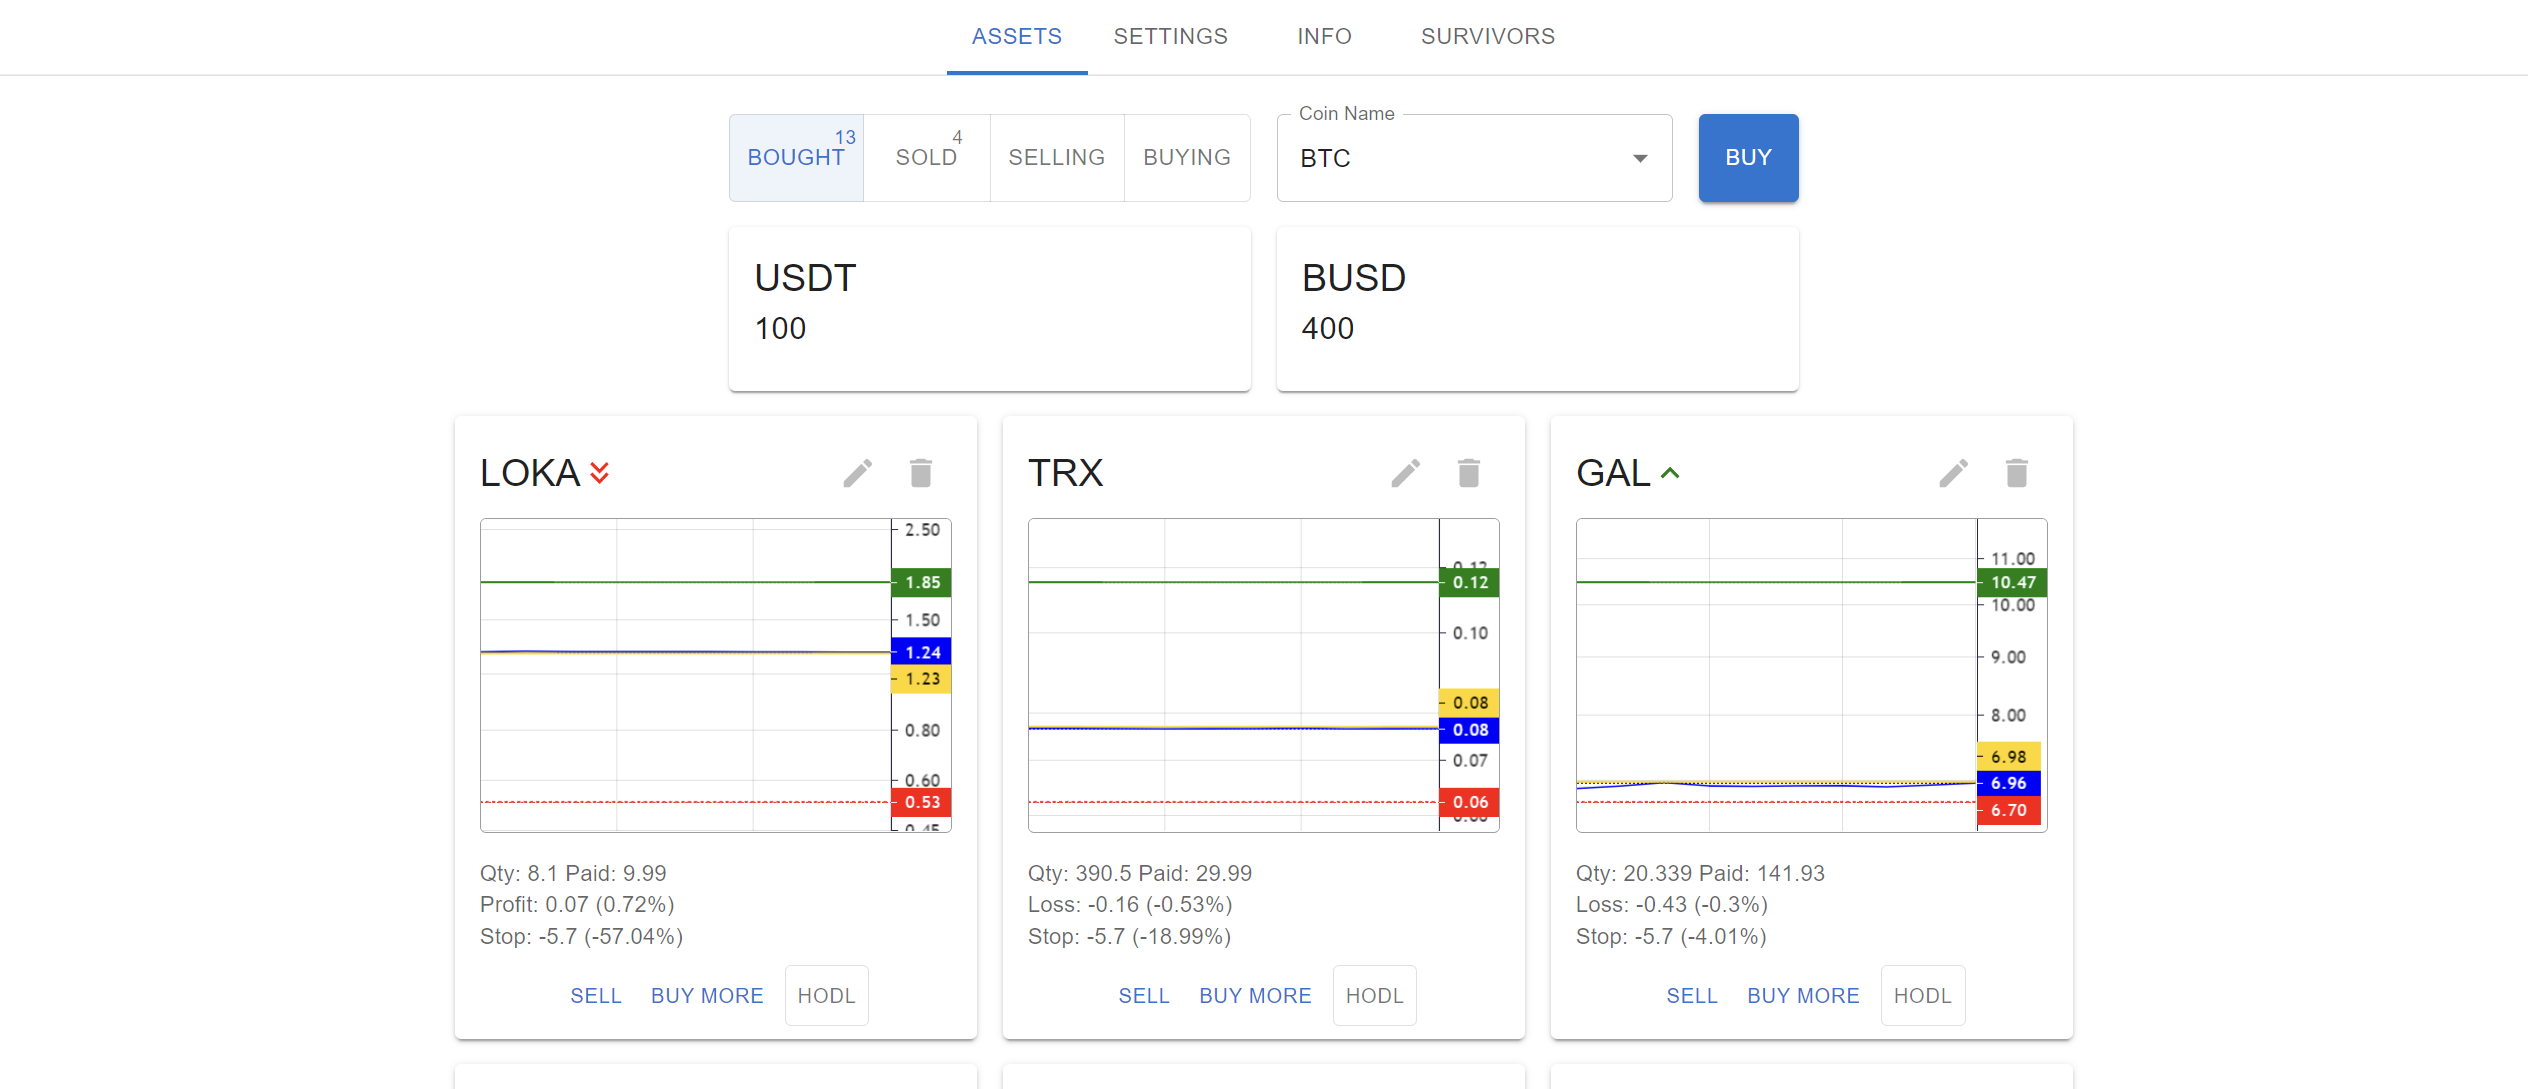
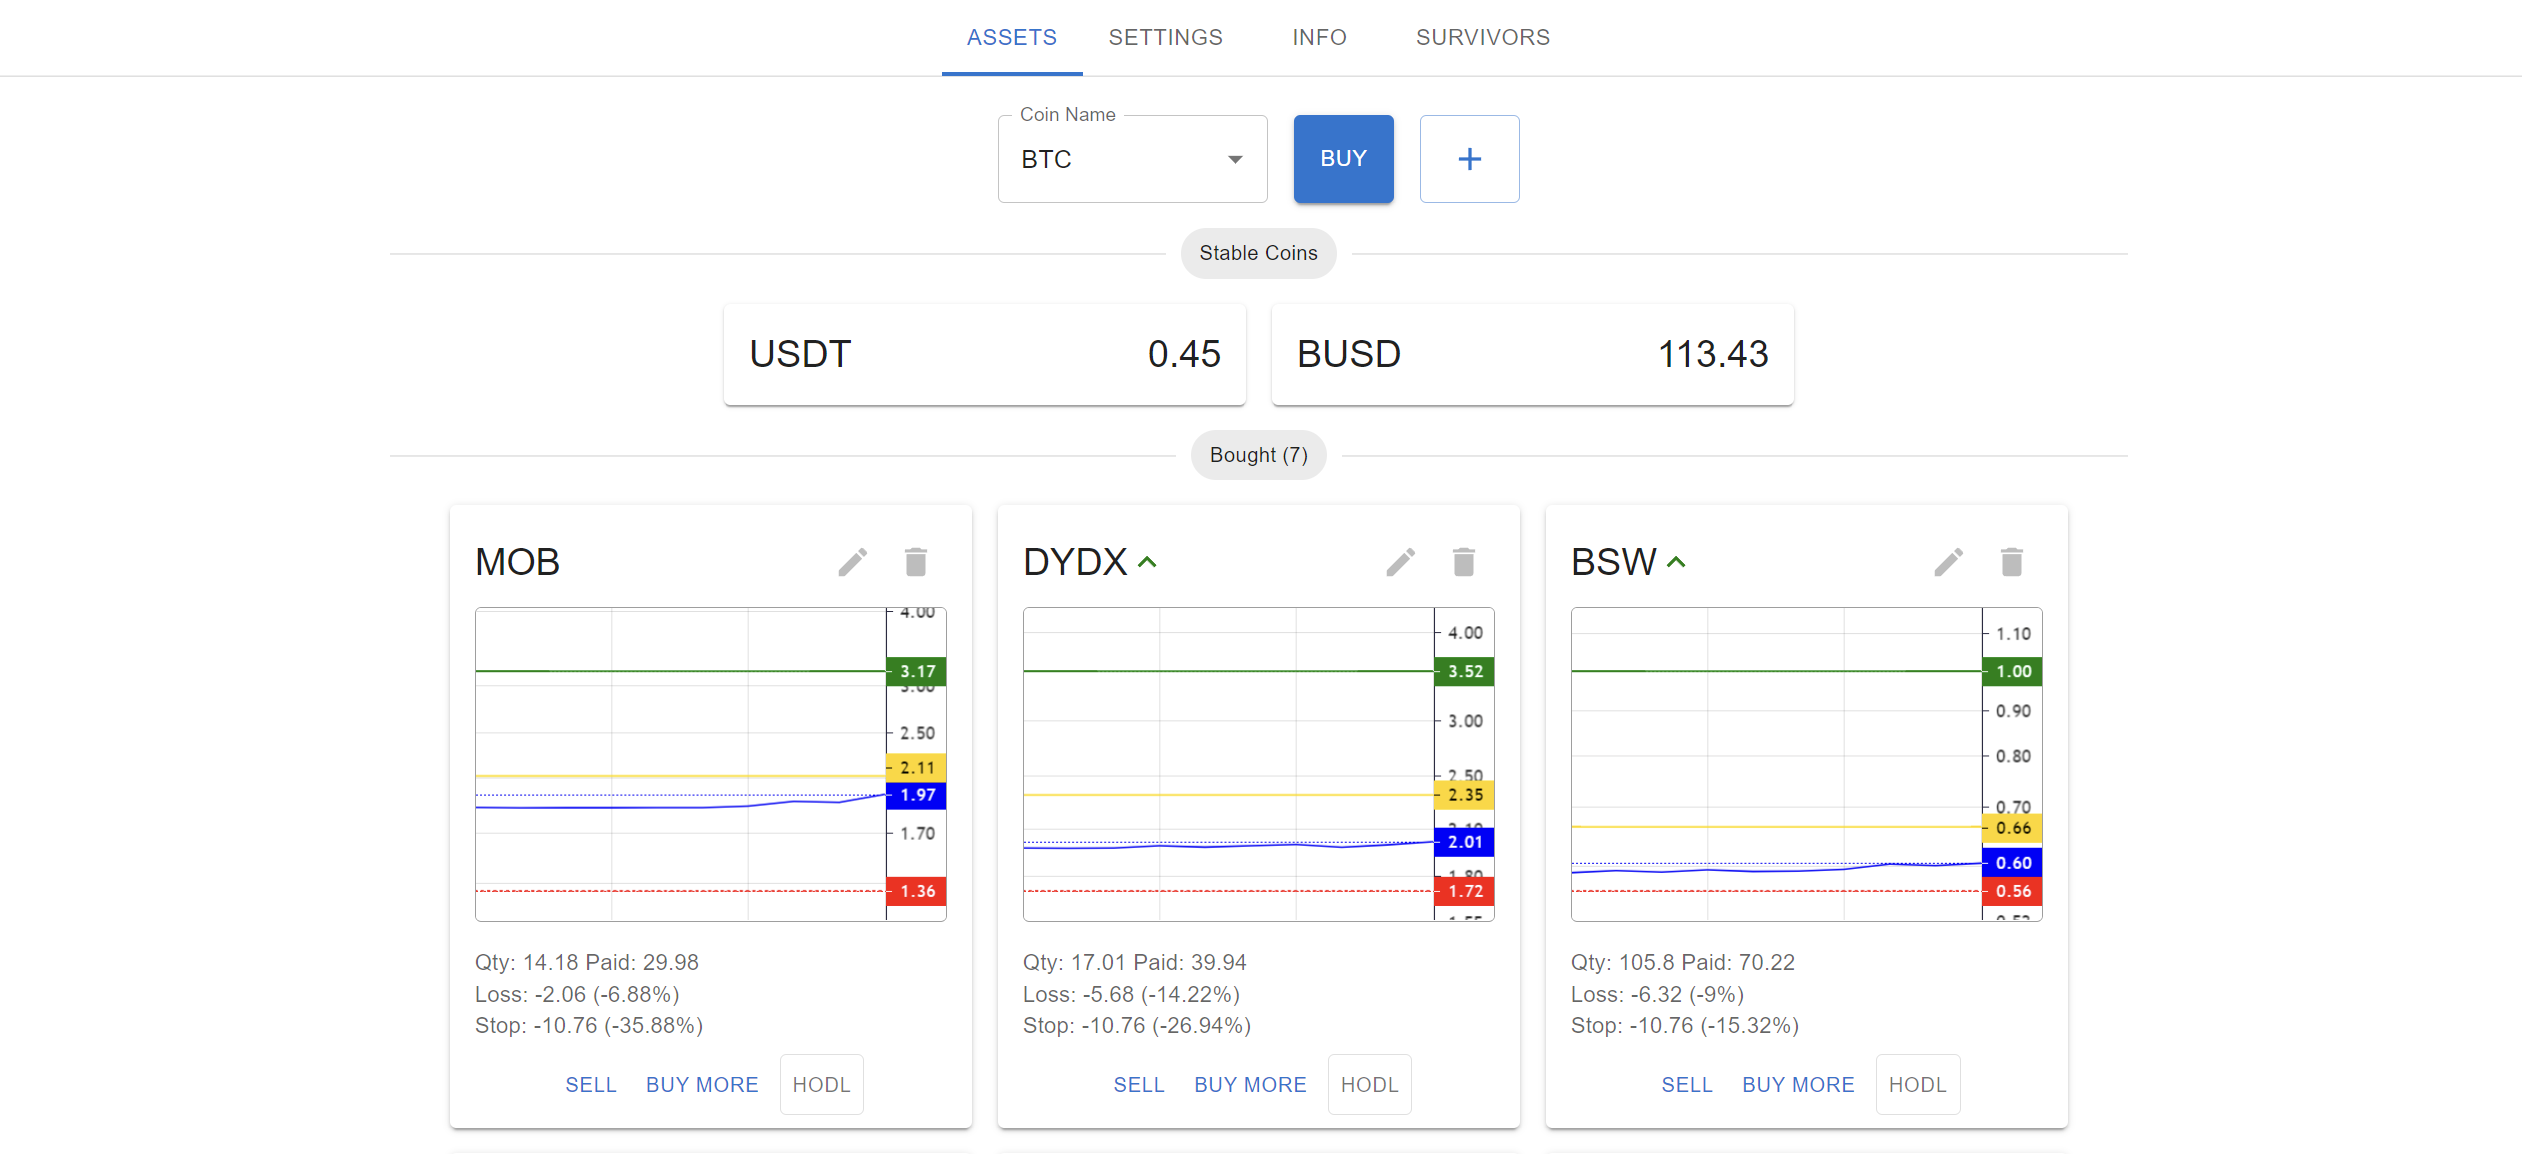
Update docs

diff --git a/CHANGELOG.md b/CHANGELOG.md
@@ -1,8 +1,12 @@
-# v2.5.1
+# v2.6.0
 
+* Improved "Assets" page UI: all tabs collapsed into a single page with clickable dividers #41.
 * Added: "Add" dialog (plus button on the "Assets" page) for entering trades manually.
+* Fixed: "Averaging down tries to invest into stablecoins when there are no other assets #38".
+* Fixed: "Any error that follows a successfully trade can leave the asset in incomplete buy/sell state #40"
 * Fixed: "In some cases changing asset name (for example EPS -> EPX) can cause a corrupted state #34".
 * Reduced the frequency of Cache -> Firebase syncing for trades to 5 minutes, to consume less UrlFetch GAS limit.
+* Swing Trade now waits for x2 Profit Limit percentage price drop, instead of x1, before buying again.
 
 # v2.5.0
 
